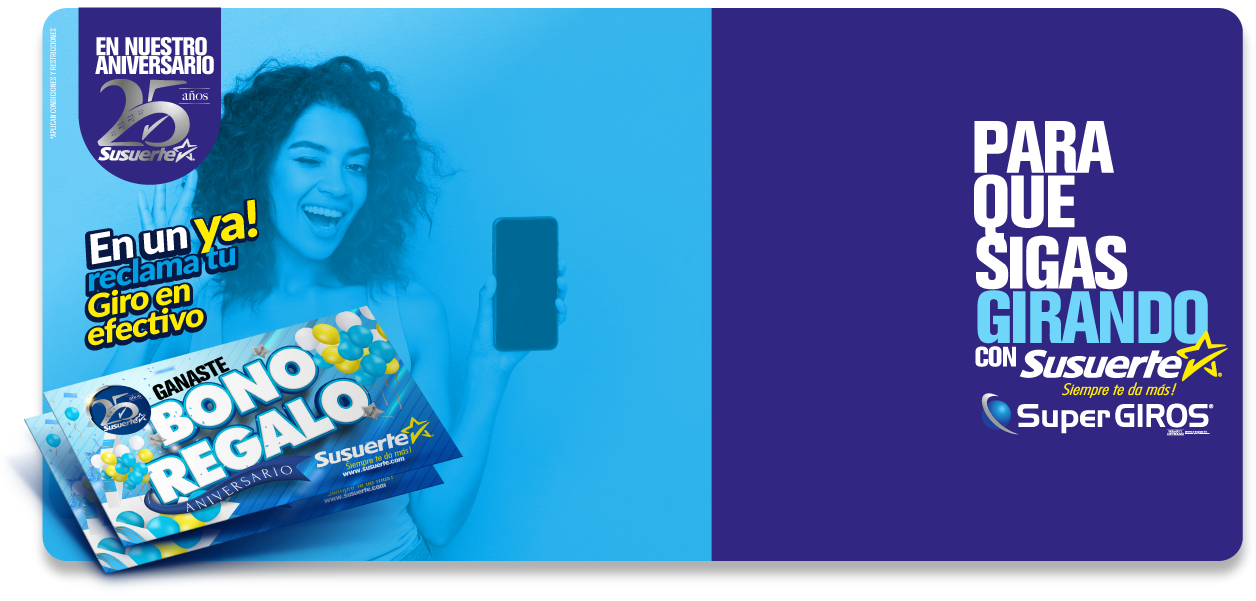
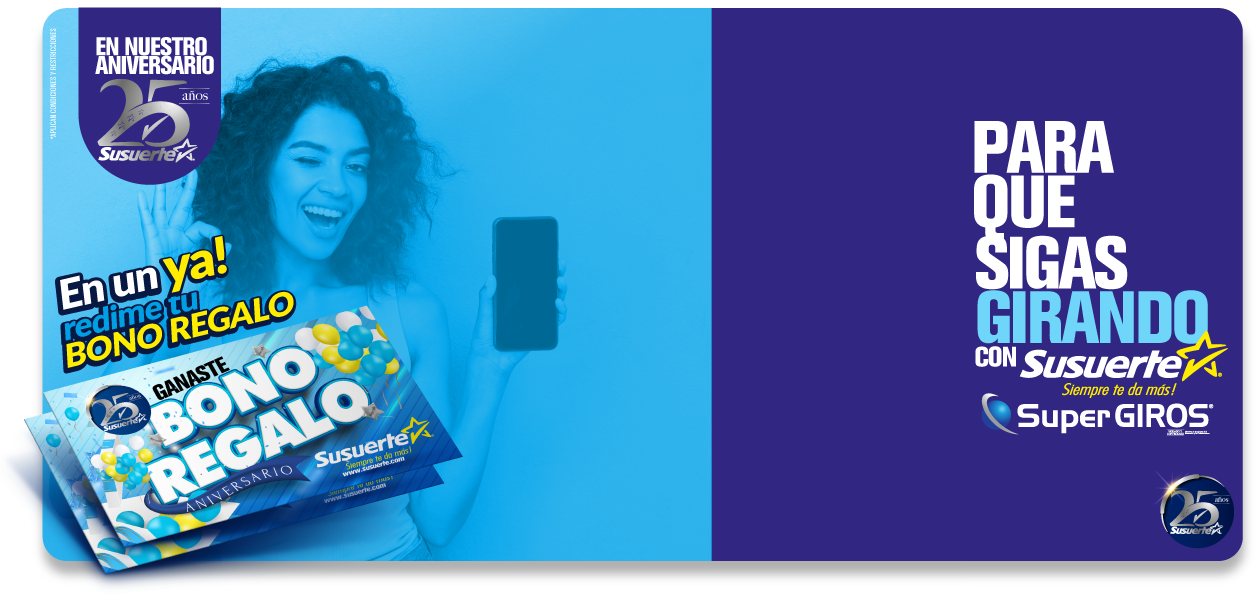
ajustes visuales

Changed region(s): [[0.0311, 0.3295, 0.2484, 0.629], [0.9005, 0.7787, 0.9936, 0.9285]]

diff --git a/vistas/css/landing-page.min.css b/vistas/css/landing-page.min.css
@@ -85,6 +85,7 @@ h5{
     padding: 6px 31px;
     margin-top: 4%;
     margin-bottom: 16.8%;
+    margin-right: 23%;
 }
 
 .registration-form .form-icon{
@@ -205,6 +206,20 @@ h5{
     width: 50%;
     margin-top: -5%;
     margin-left: 3%;
+}
+
+.colormodal{
+ background-color: rgba(251, 235, 79);    
+}
+
+.contenido_texto{
+    color:#2f2a7d;
+}
+
+
+.otra{
+    border-bottom-left-radius: 30px;
+    border-bottom-right-radius: 30px;
 }
 
 /*Estilos para Tablet*/

diff --git a/vistas/modulos/inicio.php b/vistas/modulos/inicio.php
@@ -34,7 +34,7 @@
 
 </head>
     
-<body style="background-image: url('<?php echo $_SESSION["fondo"] ?>'); background-repeat: no-repeat;
+<body style="background-image: url('<?php echo $_SESSION["fondo"] ?>');
       background-size: 100% 100%;">
 
   <style>
@@ -48,10 +48,27 @@
             <div class="col-lg-6 mx-auto">
 
                 <!-- CUSTOM BLOCKQUOTE -->
-                <blockquote class="blockquote blockquote-custom bg-white p-5 shadow rounded">
-                    <h1><b>RECLAMA TU BONOREGALO DE GIRO</b></h1> <p class="mb-0 mt-2 font-italic center">DIRIGIENDOTE A CUALQUIER PUNTO DE VENTA <b>SUSUERTE</b>, SUMINISTRAR EL SIGUIENTE ID: <b class="text-info"><h2><?php echo($_SESSION["id_bono_regalo"])?></h2></b></p> Y SIGUIENTE CÓDIGO: <b class="text-info"><h2><?php echo($_SESSION["codigoseta"])?></h2></b></p>
-                    <br> Descarga la app <a class="text-info" href="https://play.google.com/store/apps/details?id=co.com.supergiros.movil">SuperGiros Móvil</a></p>
-                </blockquote><!-- END -->
+                            <blockquote class="p-5 colormodal contenido_texto">
+                                <p align="center">
+                                  <center>
+                                    <h2><b>RECLAMA TU BONO REGALO DE GIROS EN CUALQUIER SUSUERTE DEL DEPARTAMENTO</b></h2>
+                                    <p class="mb-0 mt-2 font-italic center">Suministrando el siguiente ID: 
+                                      <b>
+                                        <p style="font-size: 250%"> <?php echo($_SESSION["id_bono_regalo"])?></p>
+                                      </b>
+                                    </p>
+                                     Y Código: <br>
+                                      <b>
+                                        <p style="font-size: 250%"> <?php echo($_SESSION["codigoseta"])?></p>
+                                      </b>
+                                    </p>
+                                     
+                                      <br> Descarga la app <a class="text-info" href="https://play.google.com/store/apps/details?id=co.com.supergiros.movil" target="_blank">SuperGiros Móvil</a>
+                                      <br><br>
+                                      <img src="vistas/img/plantilla/modal_foot.png" width="100%">
+                                  </center>
+                                </p>
+                            </blockquote><!-- END -->
 
             </div>
         </div>
@@ -63,6 +80,9 @@
     <!-- Modal content-->
     <div class="modal-content">
       <div class="modal-body">
+        <button type="button" class="close" data-dismiss="modal" aria-label="Close">
+            <span aria-hidden="true">&times;</span>
+          </button>
         <img src="<?php echo $_SESSION["popup"] ?>" style="width:100%; height:100%;" >
       </div>
     </div>
@@ -70,29 +90,42 @@
 </div>
 
   <div id="myModalCodigo" class="modal" role="dialog">
-    <div class="modal-dialog">
+    <div class="modal-dialog otra">
       <!-- Modal content-->
       <div class="modal-content">
-        <div class="modal-body">
-            <section id="divinicial">
+            <section id="divinicial" class="colormodal">
+          <button type="button" class="close" data-dismiss="modal" aria-label="Close">
+            <span aria-hidden="true">&times;</span>
+          </button>
                
               
 
                             <!-- CUSTOM BLOCKQUOTE -->
-                            <blockquote class="blockquote blockquote-custom bg-white p-5 shadow rounded">
-                                <h4>HAS DILIGENCIADO TUS DATOS CORRECTAMENTE</h4>
-                                <br><br><p align="justify"><b>
-                                  <h2><b>RECLAMA TU BONOREGALO DE GIRO</b></h2>
-                                  <p class="mb-0 mt-2 font-italic center">DIIRIGIENDOTE A CUALQUIER PUNTO DE VENTA <b>SUSUERTE</b>, SUMINISTRA EL SIGUIENTE ID: 
-                                  <b class="text-info"><h2><?php echo($_SESSION["id_bono_regalo"])?></h2></b></p>
-                                   Y EL SIGUIENTE CÓDIGO: <b class="text-info"><h2><?php echo($_SESSION["codigoseta"])?></h2></b>
-                                    <br> Descarga la app <a class="text-info" href="https://play.google.com/store/apps/details?id=co.com.supergiros.movil" target="_blank">SuperGiros Móvil</a></p>
+                            <blockquote class="p-5 colormodal contenido_texto">
+                                <p align="center">
+                                  <center>
+                                    <h2><b>RECLAMA TU BONO REGALO DE GIROS EN CUALQUIER SUSUERTE DEL DEPARTAMENTO</b></h2>
+                                    <p class="mb-0 mt-2 font-italic center">Suministrando el siguiente ID: 
+                                      <b>
+                                        <p style="font-size: 250%"> <?php echo($_SESSION["id_bono_regalo"])?></p>
+                                      </b>
+                                    </p>
+                                     Y Código: <br>
+                                      <b>
+                                        <p style="font-size: 250%"> <?php echo($_SESSION["codigoseta"])?></p>
+                                      </b>
+                                    </p>
+                                     
+                                      <br> Descarga la app <a class="text-info" href="https://play.google.com/store/apps/details?id=co.com.supergiros.movil" target="_blank">SuperGiros Móvil</a>
+                                      <br><br>
+                                      <img src="vistas/img/plantilla/modal_foot.png" width="100%">
+                                  </center>
+                                </p>
                             </blockquote><!-- END -->
 
                     
          
             </section>
-        </div>
       </div>
     </div>
   </div>
@@ -212,7 +245,9 @@ if ($_SESSION['id_producto'] == 1) {
 
               <input type="radio" name="bono" value="acepto" required class="orange">&nbsp; &nbsp;Yo acepto bono regalo de Susuerte.
               <br>
-              <input type="radio" name="condiciones" value="acepto" required="" class="size">&nbsp; &nbsp;<u><b>He leído y aceptado</u></b> <a href="https://www.susuerte.com/wp-content/uploads/2020/03/MCC-DE-15-Politica-de-Tratamiento-de-Datos-Personales-V.2.pdf" target="_blank" class="orange"> las condiciones y restricciones</a>
+              <input type="radio" name="condiciones" value="acepto" required="" class="size">&nbsp; &nbsp; 
+
+              <a href="https://www.susuerte.com/wp-content/uploads/2020/03/MCC-DE-15-Politica-de-Tratamiento-de-Datos-Personales-V.2.pdf" target="_blank" class=""> He leído y acepto las condiciones y restricciones</a>
 
             <div class="form-group">
                 <button type="submit" class="btn btn-block create-account">ENVIAR</button>
@@ -233,11 +268,11 @@ if ($_SESSION['id_producto'] == 1) {
               </form>
           </div>
           <div class="social-media">  
-                  <div class="social-icons">
+                  <!--<div class="social-icons">
                       <a href="https://www.facebook.com/Susuerte?fref=ts" class="letter"><i class="icon-social-facebook"></i><i>SUSUERTE</i></a>
                       <a href="https://www.instagram.com/susuerte/" class="letter"><i class="icon-social-instagram"></i><i> SUSUERTE</i></a>
                       <a href="https://www.youtube.com/channel/UCOGgfTd9tBDTYYDIdg9ct2w/videos" class="letter"><i class="icon-social-youtube"></i><i> SUSUERTE S.A</i></a>
-                  </div>
+                  </div>-->
           </div>
         </div>
       </div>
